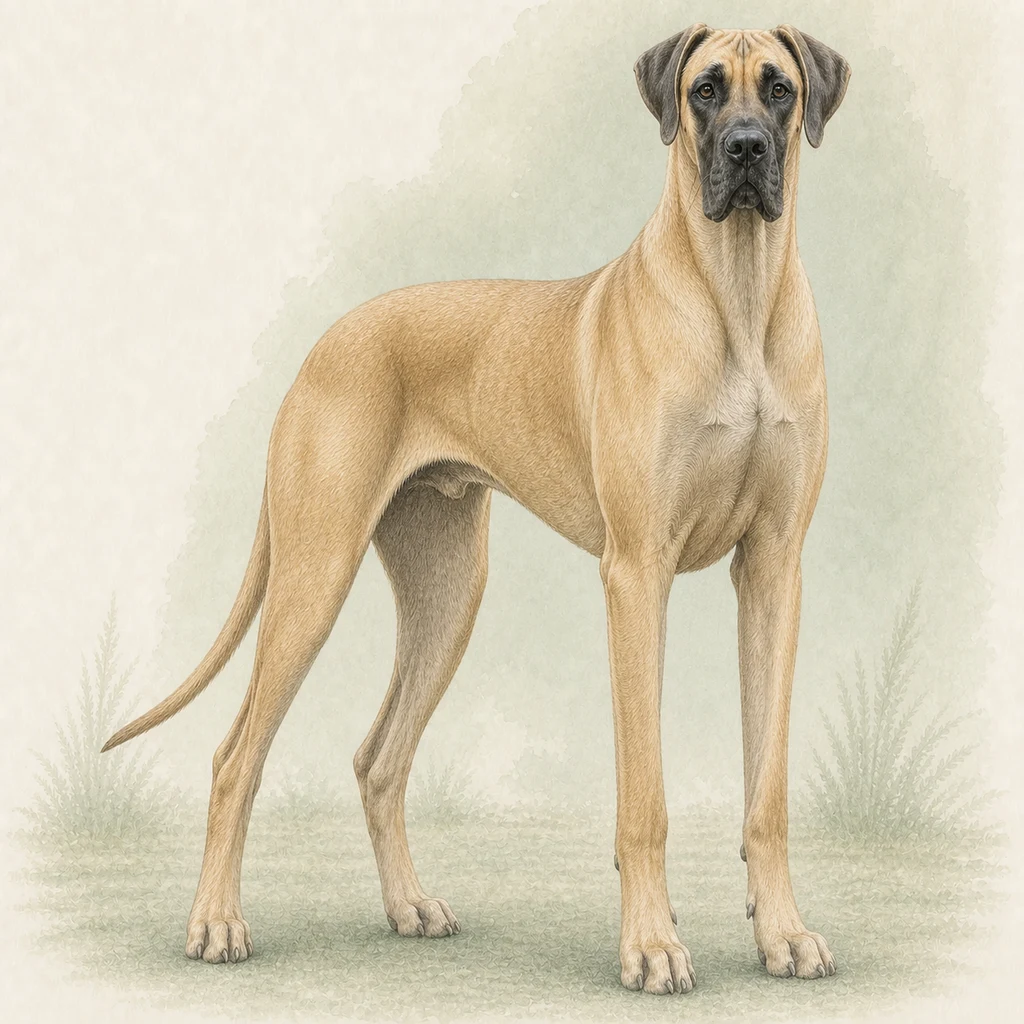
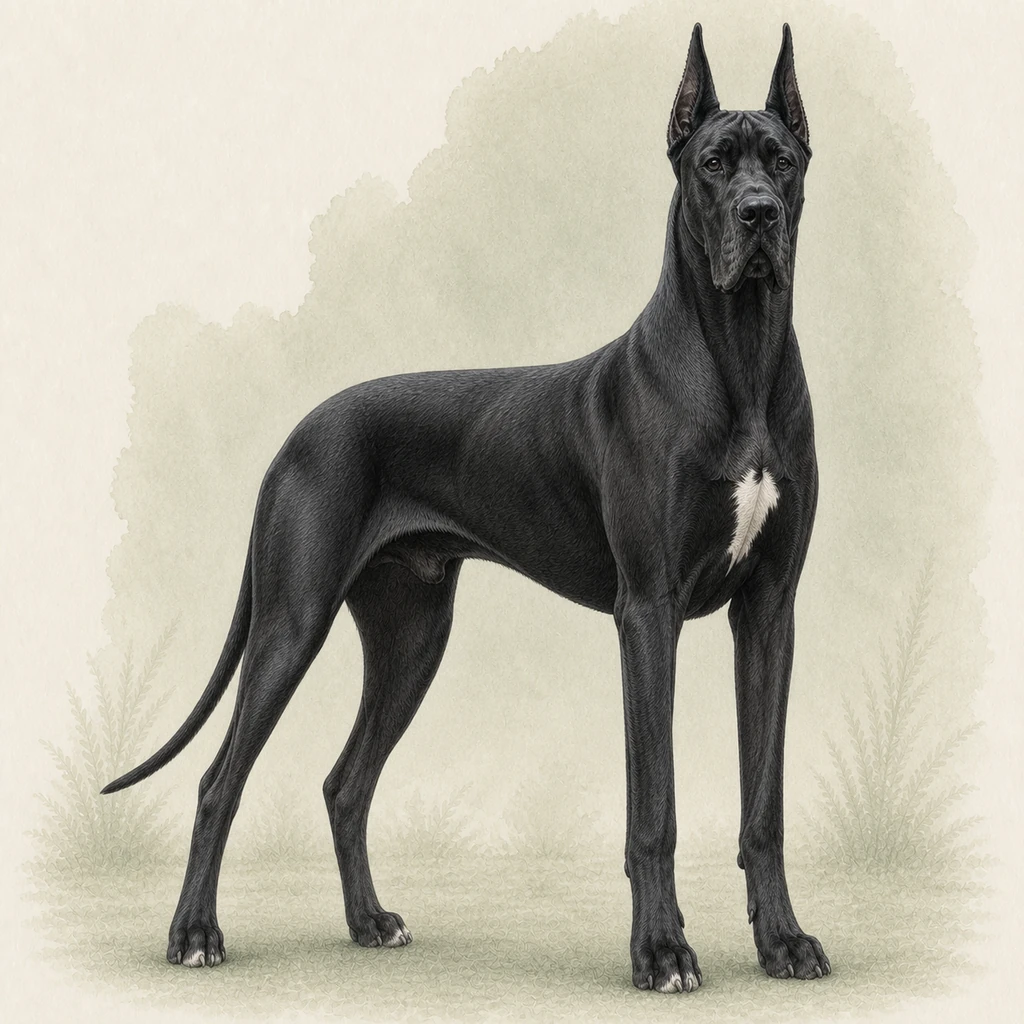
Refine Karaman and Great Dane illustrations

diff --git a/docs/project-status.md b/docs/project-status.md
@@ -7,6 +7,13 @@
 > 역할: 제품·디자인·코드·콘텐츠·검증 상태를 빠르게 파악하기 위한 살아 있는 문서
 > 갱신 책임: 중요한 변경을 수행한 사람 또는 AI가 같은 변경 안에서 이 문서를 함께 수정한다.
 
+### 2026-09-01 마케도니안 카라만·그레이트 덴 대표 이미지 재교정
+
+- 사용자가 직접 고른 성견 참고 사진을 추가 기준으로 삼아 두 견종의 체형·피모·모색을 기존 Dog Atlas 수채화 카드 형식으로 다시 옮겼다. 사진의 자세와 야외 배경, 화면 여백은 복제하지 않았다.
+- 마케도니안 셰퍼드 도그 카라만은 기존의 검정·황갈색 포인트 표현을 제거하고, 검은 거친 장모와 풍성한 목털·꼬리, 흰 가슴과 앞발, 묵직한 산악 가축보호견 체형으로 교체했다.
+- 그레이트 덴은 기존 황갈색 개체를 검은 단모·흰 가슴 패치·높게 솟은 귀의 성견으로 교체하고, 매우 긴 다리와 높은 체고, 깊은 가슴, 잘록한 복부와 긴 꼬리가 선명하게 읽히도록 했다.
+- 두 자산은 1024×1024 WebP로 저장했으며 견종 발견 카드와 상세 상단 첫 이미지에 함께 반영된다. 다른 대표 이미지와 상세 이야기 이미지는 유지했다.
+
 ### 2026-09-01 브로홀머·루마니안 카르파티안·트란스몬타노 대표 이미지 재교정
 
 - 사용자가 직접 고른 성견 참고 사진을 추가 기준으로 삼아 세 견종의 실제 시각 인상을 다시 교정했다. 휴대전화 화면과 사진 배경은 복제하지 않고 개체의 체형·머리·피모·무늬만 기존 Dog Atlas 수채화 형식으로 옮겼다.
